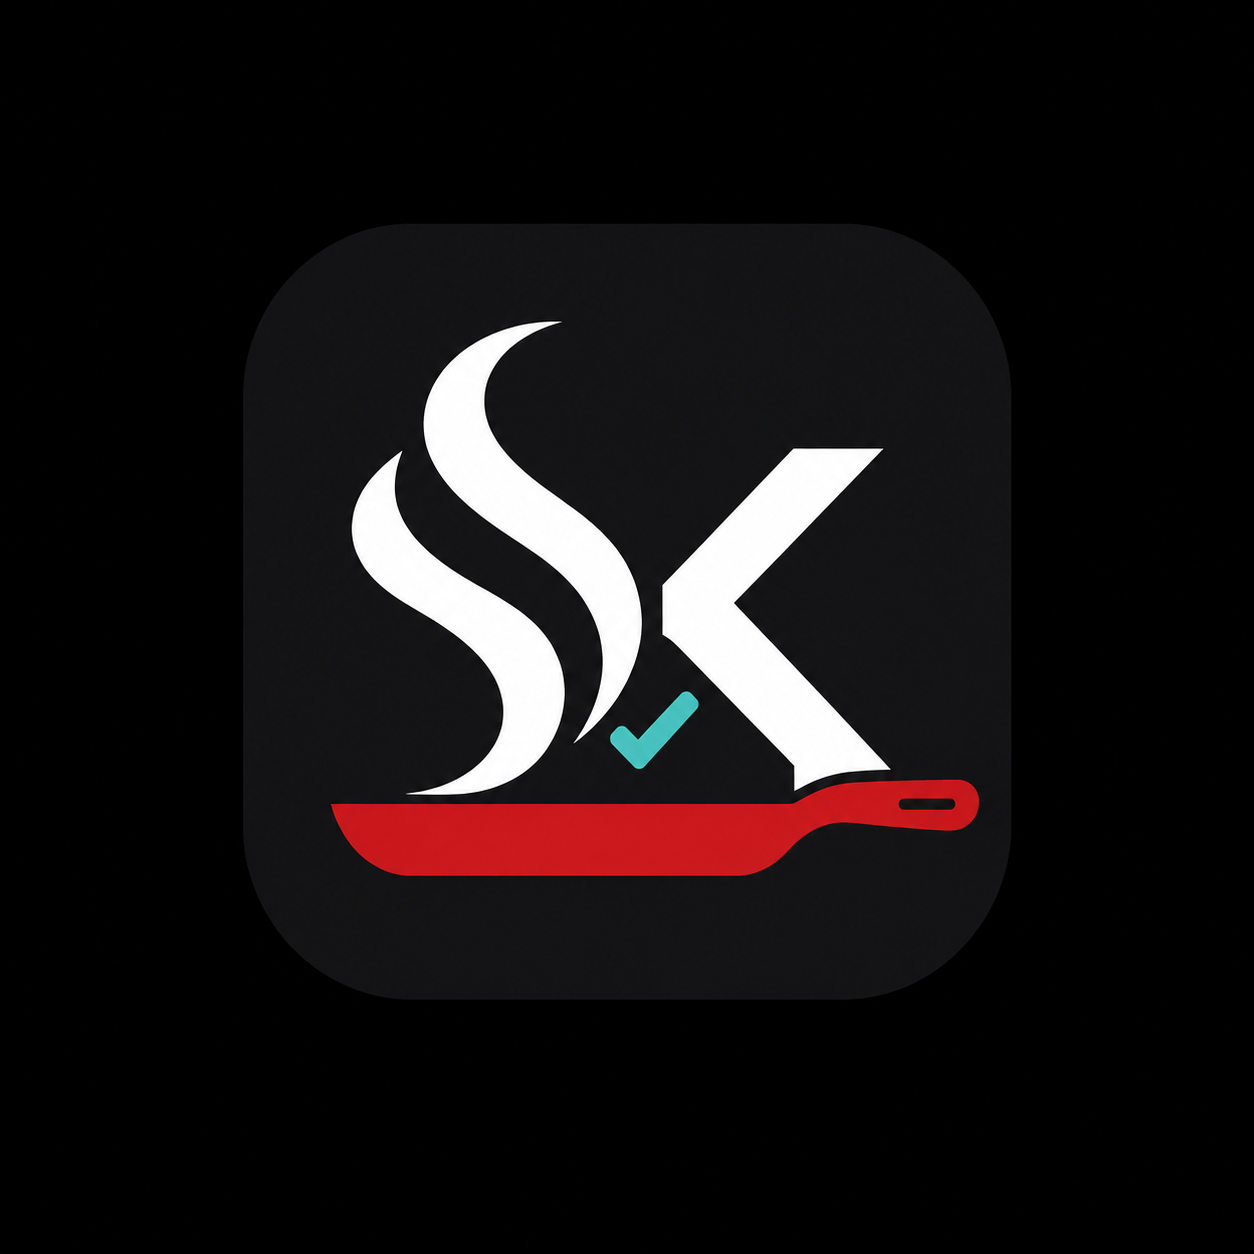
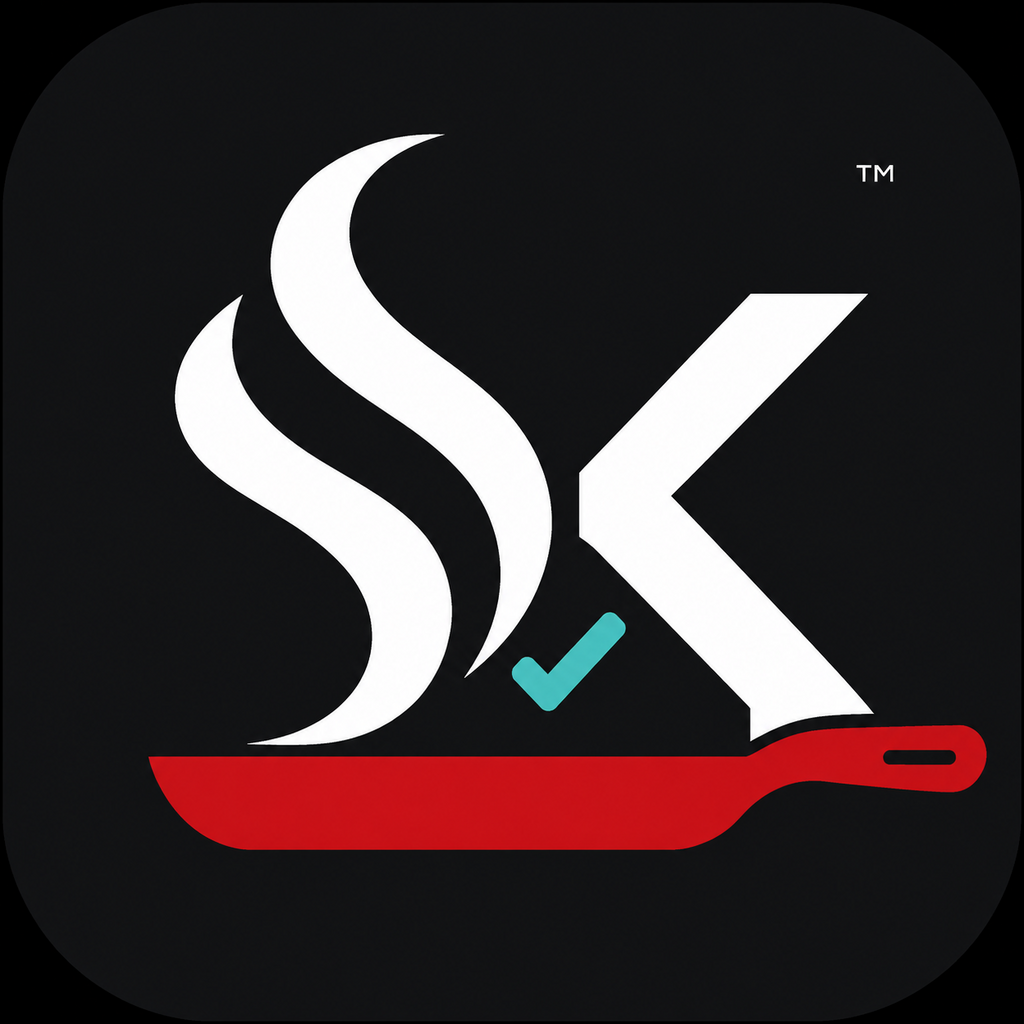
Add files via upload

Changed region(s): [[0.125, 0.125, 0.9688, 0.8438], [0.8438, 0.1562, 0.875, 0.1875], [0.375, 0.4062, 0.4062, 0.4375]]

diff --git a/index.html b/index.html
@@ -9,10 +9,10 @@
   <meta name="apple-mobile-web-app-title" content="Serenity Kitchen">
   <meta http-equiv="Cache-Control" content="no-cache, no-store, must-revalidate">
   <meta name="kc-url-import-endpoint" content="">
-  <link rel="manifest" href="app.webmanifest?v=0.21.6">
-  <link rel="apple-touch-icon" href="icon-180.png?v=0.21.6">
-  <title>Serenity Kitchen</title>
-  <link rel="stylesheet" href="styles.css?v=0.21.6">
+  <link rel="manifest" href="app.webmanifest?v=0.21.7">
+  <link rel="apple-touch-icon" href="icon-180.png?v=0.21.7">
+  <title>Serenity Kitchen™</title>
+  <link rel="stylesheet" href="styles.css?v=0.21.7">
 </head>
 <body>
   <div class="app-shell">
@@ -57,7 +57,7 @@
       <div class="sidebar-heading">Categories</div>
       <div id="categoryList" class="category-list"></div>
       </div>
-      <div class="sidebar-version" aria-label="Current app version">Serenity Kitchen <strong>v0.21.6</strong></div>
+      <div class="sidebar-version" aria-label="Current app version">Serenity Kitchen™ <strong>v0.21.7</strong></div>
     </aside>
 
     <div id="scrim" class="scrim"></div>
@@ -66,6 +66,7 @@
       <section id="homePane" class="home-pane" hidden aria-label="Serenity Kitchen home">
         <div class="home-artwork">
           <img src="serenity-kitchen-home.jpeg" alt="Serenity Kitchen home screen">
+          <span class="home-trademark" aria-hidden="true">TM</span>
           <button type="button" class="home-hotspot home-recipes" data-home-view="all" aria-label="Open recipes"></button>
           <button type="button" class="home-hotspot home-shopping" data-home-view="shopping" aria-label="Open shopping lists"></button>
           <button type="button" class="home-hotspot home-pantry" data-home-view="pantry" aria-label="Open pantry"></button>
@@ -250,7 +251,7 @@
   <dialog id="userManualDialog" class="user-manual-dialog">
     <div class="dialog-card user-manual-card">
       <div class="manual-sticky-header">
-        <div><h2>Serenity Kitchen manual</h2><small>For app version <span id="manualVersionLabel">0.21.6</span></small></div>
+        <div><h2>Serenity Kitchen™ manual</h2><small>For app version <span id="manualVersionLabel">0.21.7</span></small></div>
         <button type="button" id="closeUserManual" class="icon-btn" aria-label="Close user manual"><svg class="line-icon" viewBox="0 0 24 24" aria-hidden="true"><path d="m6 6 12 12M18 6 6 18"/></svg></button>
       </div>
       <div class="manual-search-wrap">
@@ -321,7 +322,7 @@
       <div class="settings-sections">
         <details class="settings-section" open>
           <summary>App and updates</summary>
-          <div class="settings-section-content"><div class="version-card"><strong>Serenity Kitchen</strong><span>by Serenity Valley Works</span><span>Engine version <b id="engineVersionLabel">0.21.6</b></span><span>Module format 1.x</span><button type="button" id="forceUpdateBtn" class="button secondary">Check for app update</button></div></div>
+          <div class="settings-section-content"><div class="version-card"><strong>Serenity Kitchen™</strong><span>by Serenity Valley Works</span><small>Serenity Kitchen™ and the SK design are trademarks of Serenity Valley Works.</small><span>Engine version <b id="engineVersionLabel">0.21.7</b></span><span>Module format 1.x</span><button type="button" id="forceUpdateBtn" class="button secondary">Check for app update</button></div></div>
         </details>
         <details class="settings-section" open>
           <summary>Account and household sharing</summary>
@@ -816,12 +817,12 @@
     </article>
   </template>
 
-  <script src="kitchen-engine.js?v=0.21.6"></script>
-  <script src="profile-storage.js?v=0.21.6"></script>
-  <script src="url-recipe-import.js?v=0.21.6"></script>
-  <script src="meal-planner.js?v=0.21.6"></script>
-  <script src="sync-client.js?v=0.21.6"></script>
-  <script src="app.js?v=0.21.6"></script>
-  <script src="ocr-service.js?v=0.21.6"></script>
+  <script src="kitchen-engine.js?v=0.21.7"></script>
+  <script src="profile-storage.js?v=0.21.7"></script>
+  <script src="url-recipe-import.js?v=0.21.7"></script>
+  <script src="meal-planner.js?v=0.21.7"></script>
+  <script src="sync-client.js?v=0.21.7"></script>
+  <script src="app.js?v=0.21.7"></script>
+  <script src="ocr-service.js?v=0.21.7"></script>
 </body>
 </html>

diff --git a/styles.css b/styles.css
@@ -68,6 +68,7 @@ button { color: inherit; }
 .home-pane { min-height:100dvh; background:#080808; }
 .home-artwork { position:relative; width:min(100%, 864px); margin:0 auto; }
 .home-artwork > img { display:block; width:100%; height:auto; }
+.home-trademark { position:absolute; z-index:2; left:74.6%; top:30.35%; color:#fff; font-family:Arial,sans-serif; font-size:clamp(6px,1.15vw,10px); font-weight:500; line-height:1; pointer-events:none; user-select:none; }
 .home-hotspot { position:absolute; z-index:2; border:0; border-radius:8%; background:transparent; cursor:pointer; touch-action:manipulation; }
 .home-hotspot:focus-visible { outline:4px solid #56d5d0; outline-offset:-4px; }
 .home-recipes { left:4.7%; top:55.8%; width:39.5%; height:19.3%; }
@@ -307,6 +308,7 @@ dialog::backdrop { background: rgba(0,0,0,.55); }
 body.menu-open { overflow: hidden; touch-action: none; }
 .import-choice-grid { display:grid; gap:.75rem; margin-top:1rem; }
 .version-card .button { margin-top:.5rem; }
+.version-card small { color:var(--muted); line-height:1.35; }
 .settings-card{box-sizing:border-box;width:100%;min-width:0;max-height:92dvh;margin:0;padding:0 1rem 1rem;overflow-x:hidden;overflow-y:auto;overscroll-behavior-x:none;overscroll-behavior-y:contain;touch-action:pan-y;-webkit-overflow-scrolling:touch}
 .user-manual-dialog{width:min(94vw,760px);max-height:92dvh;padding:0}
 .user-manual-card{box-sizing:border-box;width:100%;min-width:0;max-height:92dvh;margin:0;padding:0 1rem 1rem;overflow:auto;overscroll-behavior:contain;-webkit-overflow-scrolling:touch}
@@ -760,7 +762,7 @@ dialog:not(.guided-cooking-dialog)>.dialog-card{
   cursor: pointer;
 }
 
-/* v0.21.6 shared Serenity Kitchen interior design system */
+/* v0.21.7 shared Serenity Kitchen interior design system */
 :root{
   --bg:#f4efe9;--panel:#fffaf5;--panel-2:#eee5dd;--surface-3:#e3d6cc;
   --text:#2b2420;--muted:#71665f;--border:#d7c9bf;--accent:#c80d3e;--accent-2:#a90834;
@@ -773,7 +775,7 @@ dialog:not(.guided-cooking-dialog)>.dialog-card{
   --tiffany:#81d8d0;--tiffany-soft:#183c39;--danger:#e55472;--shadow:0 14px 38px rgba(0,0,0,.3);
 }
 html{background:var(--bg)}body{background:var(--bg);font-weight:450}
-body:not(.home-view)::before{content:"";position:fixed;z-index:2;left:50%;top:48%;width:min(82vw,760px);aspect-ratio:1;transform:translate(-50%,-50%);background:var(--watermark-color,#7f1732);opacity:.18;pointer-events:none;user-select:none;-webkit-mask:url('sk-watermark.png?v=0.21.6') center/contain no-repeat;mask:url('sk-watermark.png?v=0.21.6') center/contain no-repeat}
+body:not(.home-view)::before{content:"";position:fixed;z-index:2;left:50%;top:48%;width:min(82vw,760px);aspect-ratio:1;transform:translate(-50%,-50%);background:var(--watermark-color,#7f1732);opacity:.18;pointer-events:none;user-select:none;-webkit-mask:url('sk-watermark.png?v=0.21.7') center/contain no-repeat;mask:url('sk-watermark.png?v=0.21.7') center/contain no-repeat}
 :root[data-theme="dark"] body:not(.home-view)::before{--watermark-color:#81d8d0;opacity:.22}
 .app-shell,.main{position:relative}.app-shell{z-index:1;grid-template-rows:var(--header-height) 1fr}.main{z-index:1;padding:clamp(1rem,2.6vw,2rem)}
 .topbar{z-index:50;min-height:var(--header-height);padding:max(7px,env(safe-area-inset-top)) max(14px,env(safe-area-inset-right)) 7px max(14px,env(safe-area-inset-left));background:color-mix(in srgb,var(--panel) 92%,transparent);border-bottom:1px solid var(--border);box-shadow:0 6px 20px rgba(0,0,0,.12)}

diff --git a/app.js b/app.js
@@ -2,7 +2,7 @@
   'use strict';
 
   const STORAGE_KEY = 'recipeEngineState.v1';
-  const ENGINE_VERSION = '0.21.6';
+  const ENGINE_VERSION = '0.21.7';
   const engine = new KitchenCompanionEngine();
   const MODULE_CATALOG_URL = './catalog.json';
   const OFFLINE_OCR_CACHE = 'kitchen-companion-ocr-tesseract-7.0.0-best-int';
@@ -1102,7 +1102,7 @@
 
   function registerServiceWorker() {
     if (!('serviceWorker' in navigator)) return;
-    navigator.serviceWorker.register('./service-worker.js?v=0.21.6').then(reg => {
+    navigator.serviceWorker.register('./service-worker.js?v=0.21.7').then(reg => {
       reg.update();
       return navigator.serviceWorker.ready;
     }).then(() => refreshOfflineOcrStatus()).catch(console.warn);
@@ -2684,7 +2684,7 @@ The recipe remains installed and can be restored from Settings → Hidden Recipe
   function formatClock(ms) { const total=Math.ceil(ms/1000), h=Math.floor(total/3600), m=Math.floor((total%3600)/60), s=total%60; return h?`${h}:${String(m).padStart(2,'0')}:${String(s).padStart(2,'0')}`:`${m}:${String(s).padStart(2,'0')}`; }
 
   function initBellAudio() {
-    bellAudio = new Audio('./alarm-bell.wav?v=0.21.6');
+    bellAudio = new Audio('./alarm-bell.wav?v=0.21.7');
     bellAudio.loop = true;
     bellAudio.preload = 'auto';
     bellAudio.volume = Number(state.settings.alarmVolume ?? 0.85);

diff --git a/service-worker.js b/service-worker.js
@@ -1,8 +1,8 @@
-const CACHE_NAME = 'serenity-kitchen-v0.21.6';
+const CACHE_NAME = 'serenity-kitchen-v0.21.7';
 const OCR_CACHE_NAME = 'kitchen-companion-ocr-tesseract-7.0.0-best-int';
 const APP_SHELL = [
-  './', './index.html', './styles.css?v=0.21.6', './kitchen-engine.js?v=0.21.6', './profile-storage.js?v=0.21.6', './meal-planner.js?v=0.21.6', './sync-client.js?v=0.21.6', './app.js?v=0.21.6',
-  './url-recipe-import.js?v=0.21.6', './ocr-service.js?v=0.21.6', './alarm-bell.wav?v=0.21.6', './app.webmanifest?v=0.21.6', './icon-180.png?v=0.21.6', './icon-192.png?v=0.21.6', './icon-512.png?v=0.21.6', './serenity-kitchen-icon-1024.png?v=0.21.6', './serenity-kitchen-home.jpeg?v=0.21.6', './sk-watermark.png?v=0.21.6'
+  './', './index.html', './styles.css?v=0.21.7', './kitchen-engine.js?v=0.21.7', './profile-storage.js?v=0.21.7', './meal-planner.js?v=0.21.7', './sync-client.js?v=0.21.7', './app.js?v=0.21.7',
+  './url-recipe-import.js?v=0.21.7', './ocr-service.js?v=0.21.7', './alarm-bell.wav?v=0.21.7', './app.webmanifest?v=0.21.7', './icon-180.png?v=0.21.7', './icon-192.png?v=0.21.7', './icon-512.png?v=0.21.7', './serenity-kitchen-icon-1024.png?v=0.21.7', './serenity-kitchen-home.jpeg?v=0.21.7', './sk-watermark.png?v=0.21.7'
 ];
 const OCR_ASSETS = [
   './Vendor/tesseract-7.0.0/tesseract.min.js',

diff --git a/profile-storage.js b/profile-storage.js
@@ -11,7 +11,7 @@
   const MAX_AUTOMATIC_BACKUPS = 5;
   const MAX_MANUAL_BACKUPS = 10;
   const STARTUP_BACKUP_INTERVAL_MS = 24 * 60 * 60 * 1000;
-  const APP_VERSION = '0.21.6';
+  const APP_VERSION = '0.21.7';
   const STORAGE_SCHEMA_VERSION = 2;
 
   const clone = value => JSON.parse(JSON.stringify(value));
